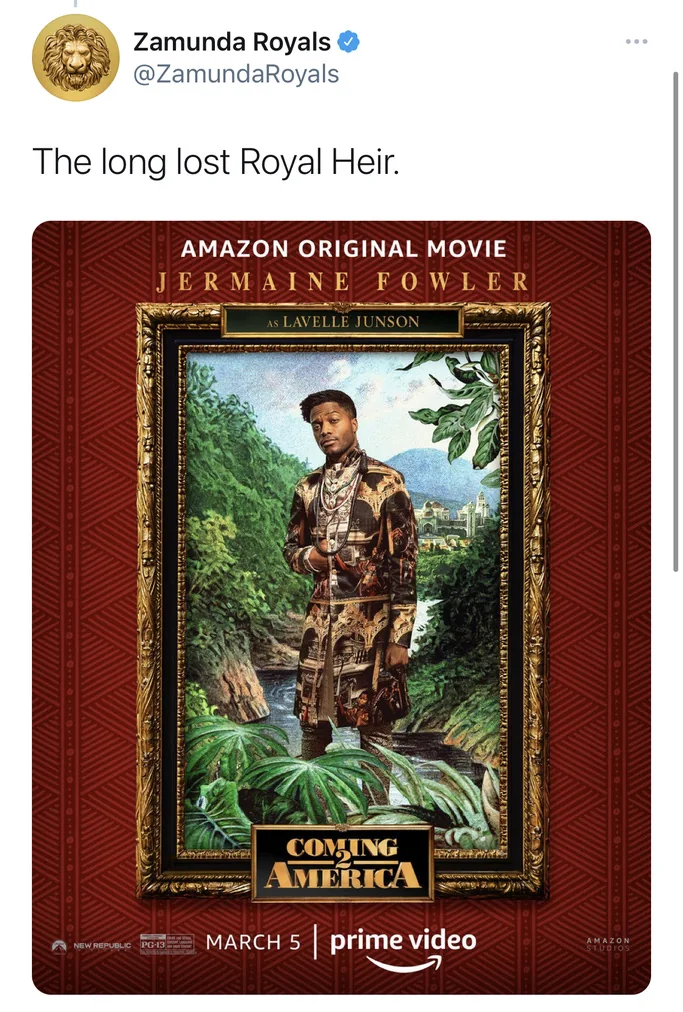
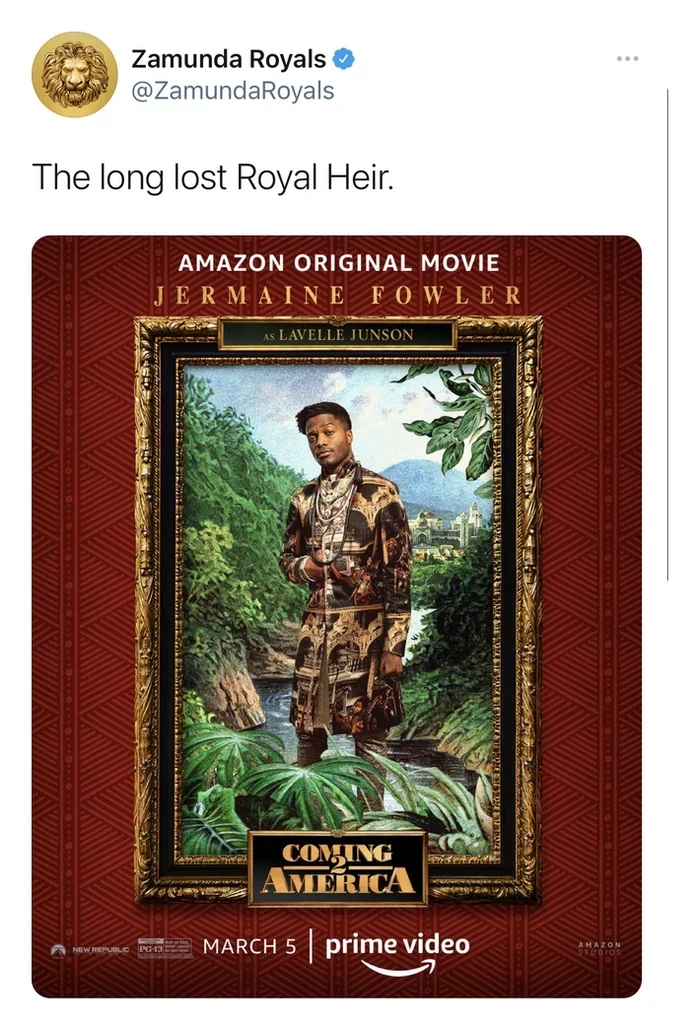
Coming 2 America: even tweet crops, centered palace bio, handle line removed
Claude-Session: https://claude.ai/code/session_01GynMn68rPNeErdqJf9SnSH

diff --git a/pages/coming-2-america.html b/pages/coming-2-america.html
@@ -252,7 +252,7 @@ display:block;position:relative;overflow-x:clip;width:100%;background:var(--iv);
 .zm .pid>div{padding-top:calc(var(--u)*4.2)}
 .zm .nm{font:900 calc(var(--u)*2)/1 var(--hd);color:var(--g3)}
 .zm .hn{margin-top:.5em;font:700 calc(var(--u)*.8)/1.3 var(--hd);letter-spacing:.16em;text-transform:uppercase;color:rgba(251,245,232,.75)}
-.zm .bio{margin:calc(var(--u)*1.6) 0 0 calc(var(--u)*3);font:italic 400 calc(var(--u)*1.6)/1.35 var(--bd);color:var(--pp)}
+.zm .bio{margin:calc(var(--u)*1.6) 0 0;text-align:center;font:italic 400 calc(var(--u)*1.6)/1.35 var(--bd);color:var(--pp)}
 .zm .rail{margin-top:calc(var(--u)*5)}
 .zm .rh{display:flex;align-items:center;justify-content:space-between;gap:1em}
 .zm .rb{display:flex;gap:calc(var(--u)*.8)}
@@ -380,7 +380,7 @@ display:block;position:relative;overflow-x:clip;width:100%;background:var(--iv);
  .zm .rwd .gv{grid-column:1/3;grid-row:1}
  .zm .ri{height:340px}
  .zm .pid{margin-left:calc(var(--u)*2)}
- .zm .bio{margin-left:0;font-size:19px}
+ .zm .bio{font-size:19px}
  .zm .ft .sp{display:block}
  .zm .ft .spf{margin-top:calc(var(--u)*3.4)}
  .zm h2{font-size:min(54px,8.6vw)}
@@ -542,7 +542,7 @@ display:block;position:relative;overflow-x:clip;width:100%;background:var(--iv);
   </div>
   <div class="prof rv">
    <figure class="gf pc"><i class="c tl"></i><i class="c tr"></i><i class="c bl"></i><i class="c br"></i><div class="in"><img src="https://raw.githubusercontent.com/manicpixiedigifairy/nina-site/main/assets/c2a-royal-family.webp?v=1" alt="" role="img" aria-label="The royal family of Zamunda in a painted jungle landscape, King Akeem crowned at center" width="1800" height="687" loading="lazy"></div></figure>
-   <div class="pid"><span class="av"><img src="https://raw.githubusercontent.com/manicpixiedigifairy/nina-site/main/assets/c2a-lion.webp?v=1" alt="" role="img" aria-label="The golden lion crest used as the @ZamundaRoyals avatar" width="400" height="400" loading="lazy"></span><div><p class="nm">Zamunda Royals</p><p class="hn">@ZamundaRoyals on Instagram and Twitter</p></div></div>
+   <div class="pid"><span class="av"><img src="https://raw.githubusercontent.com/manicpixiedigifairy/nina-site/main/assets/c2a-lion.webp?v=1" alt="" role="img" aria-label="The golden lion crest used as the @ZamundaRoyals avatar" width="400" height="400" loading="lazy"></span><div><p class="nm">Zamunda Royals</p></div></div>
    <p class="bio">&ldquo;Behold, the official propaganda arm of the Kingdom of Zamunda.&rdquo;</p>
   </div>
   <figure class="gf pf rv"><i class="c tl"></i><i class="c tr"></i><i class="c bl"></i><i class="c br"></i>
@@ -580,7 +580,7 @@ display:block;position:relative;overflow-x:clip;width:100%;background:var(--iv);
   </figure>
   <div class="rail rv">
    <div class="rh"><p class="lb">From The Feed</p><div class="rb"><button type="button" class="rbt" data-d="-1" aria-label="Previous posts">&larr;</button><button type="button" class="rbt" data-d="1" aria-label="Next posts">&rarr;</button></div></div>
-   <div class="rt" id="zmrt"><figure class="ri"><img src="https://raw.githubusercontent.com/manicpixiedigifairy/nina-site/main/assets/c2a-zorbes.webp?v=1" alt="" role="img" aria-label="Zorbes magazine parody cover naming King Akeem Zamunda's wealthiest person" width="1000" height="1250" loading="lazy"></figure><figure class="ri"><img src="https://raw.githubusercontent.com/manicpixiedigifairy/nina-site/main/assets/c2a-tweet-mirembe.webp?v=1" alt="" role="img" aria-label="@ZamundaRoyals tweet introducing Mirembe as a breath of fresh air for the long lost royal heir" width="678" height="1030" loading="lazy"></figure><figure class="ri"><img src="https://raw.githubusercontent.com/manicpixiedigifairy/nina-site/main/assets/c2a-tweet-lavelle.webp?v=1" alt="" role="img" aria-label="@ZamundaRoyals tweet introducing Lavelle Junson as the long lost royal heir" width="683" height="1012" loading="lazy"></figure><figure class="ri"><img src="https://raw.githubusercontent.com/manicpixiedigifairy/nina-site/main/assets/c2a-tweet-cleo-maurice.webp?v=1" alt="" role="img" aria-label="@ZamundaRoyals tweet bringing the King of burgers to the kingdom, with Cleo and Maurice" width="699" height="1123" loading="lazy"></figure><figure class="ri"><img src="https://raw.githubusercontent.com/manicpixiedigifairy/nina-site/main/assets/c2a-gif-news.gif?v=1" alt="" role="img" aria-label="Animated @ZamundaRoyals clip of a Royal Palace Zamunda live news broadcast with the barbershop crew" width="400" height="400" loading="lazy"></figure><figure class="ri"><img src="https://raw.githubusercontent.com/manicpixiedigifairy/nina-site/main/assets/c2a-lisa-akeem-portrait.webp?v=1" alt="" role="img" aria-label="Queen Lisa standing beside King Akeem seated on his throne in the palace" width="1000" height="1000" loading="lazy"></figure><figure class="ri"><img src="https://raw.githubusercontent.com/manicpixiedigifairy/nina-site/main/assets/c2a-bank-of-zamunda.webp?v=1" alt="" role="img" aria-label="Bank of Zamunda one hundred pound notes with King Akeem's portrait and the golden lion" width="1000" height="1000" loading="lazy"></figure><figure class="ri"><img src="https://raw.githubusercontent.com/manicpixiedigifairy/nina-site/main/assets/c2a-varsity-briefcase.webp?v=1" alt="" role="img" aria-label="King Akeem's New York varsity jacket and royal chain laid in a briefcase of gold bars" width="1000" height="1251" loading="lazy"></figure><figure class="ri"><img src="https://raw.githubusercontent.com/manicpixiedigifairy/nina-site/main/assets/c2a-tweet-sexual-chocolate.webp?v=1" alt="" role="img" aria-label="@ZamundaRoyals tweet announcing a Sexual Chocolate giveaway from Queens legend Randy Watson" width="852" height="862" loading="lazy"></figure><figure class="ri"><img src="https://raw.githubusercontent.com/manicpixiedigifairy/nina-site/main/assets/c2a-lisa-akeem-party.webp?v=1" alt="" role="img" aria-label="Queen Lisa and King Akeem smiling at a royal celebration" width="1000" height="1191" loading="lazy"></figure></div>
+   <div class="rt" id="zmrt"><figure class="ri"><img src="https://raw.githubusercontent.com/manicpixiedigifairy/nina-site/main/assets/c2a-zorbes.webp?v=1" alt="" role="img" aria-label="Zorbes magazine parody cover naming King Akeem Zamunda's wealthiest person" width="1000" height="1250" loading="lazy"></figure><figure class="ri"><img src="https://raw.githubusercontent.com/manicpixiedigifairy/nina-site/main/assets/c2a-tweet-mirembe.webp?v=2" alt="" role="img" aria-label="@ZamundaRoyals tweet introducing Mirembe as a breath of fresh air for the long lost royal heir" width="700" height="1112" loading="lazy"></figure><figure class="ri"><img src="https://raw.githubusercontent.com/manicpixiedigifairy/nina-site/main/assets/c2a-tweet-lavelle.webp?v=2" alt="" role="img" aria-label="@ZamundaRoyals tweet introducing Lavelle Junson as the long lost royal heir" width="700" height="1030" loading="lazy"></figure><figure class="ri"><img src="https://raw.githubusercontent.com/manicpixiedigifairy/nina-site/main/assets/c2a-tweet-cleo-maurice.webp?v=2" alt="" role="img" aria-label="@ZamundaRoyals tweet bringing the King of burgers to the kingdom, with Cleo and Maurice" width="700" height="1180" loading="lazy"></figure><figure class="ri"><img src="https://raw.githubusercontent.com/manicpixiedigifairy/nina-site/main/assets/c2a-gif-news.gif?v=1" alt="" role="img" aria-label="Animated @ZamundaRoyals clip of a Royal Palace Zamunda live news broadcast with the barbershop crew" width="400" height="400" loading="lazy"></figure><figure class="ri"><img src="https://raw.githubusercontent.com/manicpixiedigifairy/nina-site/main/assets/c2a-lisa-akeem-portrait.webp?v=1" alt="" role="img" aria-label="Queen Lisa standing beside King Akeem seated on his throne in the palace" width="1000" height="1000" loading="lazy"></figure><figure class="ri"><img src="https://raw.githubusercontent.com/manicpixiedigifairy/nina-site/main/assets/c2a-bank-of-zamunda.webp?v=1" alt="" role="img" aria-label="Bank of Zamunda one hundred pound notes with King Akeem's portrait and the golden lion" width="1000" height="1000" loading="lazy"></figure><figure class="ri"><img src="https://raw.githubusercontent.com/manicpixiedigifairy/nina-site/main/assets/c2a-varsity-briefcase.webp?v=1" alt="" role="img" aria-label="King Akeem's New York varsity jacket and royal chain laid in a briefcase of gold bars" width="1000" height="1251" loading="lazy"></figure><figure class="ri"><img src="https://raw.githubusercontent.com/manicpixiedigifairy/nina-site/main/assets/c2a-tweet-sexual-chocolate.webp?v=2" alt="" role="img" aria-label="@ZamundaRoyals tweet announcing a Sexual Chocolate giveaway from Queens legend Randy Watson" width="700" height="773" loading="lazy"></figure><figure class="ri"><img src="https://raw.githubusercontent.com/manicpixiedigifairy/nina-site/main/assets/c2a-lisa-akeem-party.webp?v=1" alt="" role="img" aria-label="Queen Lisa and King Akeem smiling at a royal celebration" width="1000" height="1191" loading="lazy"></figure></div>
   </div>
  </div>
 </section>
@@ -653,7 +653,7 @@ display:block;position:relative;overflow-x:clip;width:100%;background:var(--iv);
    <div class="rv"><p class="lb">Decree VII: Royal Engagement</p><h2>No Citizen <em>Left</em> On Read</h2></div>
    <div class="bdy rv"><p>Round the clock community management kept the world of the royal family intact. Reactive and proactive, the palace prioritized high profile moments with celebrities and key influencers and answered its citizens in character.</p><p>Talent and influencers shared creative on their own channels and amplified owned messages. Scripted self shoot prompts let talent create assets from the safety of home, and social toolkits guided content creation across the court.</p></div>
   </div>
-  <div class="posts"><figure class="gf sl"><i class="c tl"></i><i class="c tr"></i><i class="c bl"></i><i class="c br"></i><div class="in"><img src="https://raw.githubusercontent.com/manicpixiedigifairy/nina-site/main/assets/c2a-influencer-jessiewoo.webp?v=1" alt="" role="img" aria-label="Influencer post in a Zamunda inspired print gown in front of the Coming 2 America title screen" width="1000" height="1722" loading="lazy"></div></figure><figure class="gf sl"><i class="c tl"></i><i class="c tr"></i><i class="c bl"></i><i class="c br"></i><div class="in"><img src="https://raw.githubusercontent.com/manicpixiedigifairy/nina-site/main/assets/c2a-influencer-martin.webp?v=1" alt="" role="img" aria-label="Martin Lawrence post of the black and gold Coming 2 America gift boxes" width="1000" height="1511" loading="lazy"></div></figure><figure class="gf sl"><i class="c tl"></i><i class="c tr"></i><i class="c bl"></i><i class="c br"></i><div class="in"><img src="https://raw.githubusercontent.com/manicpixiedigifairy/nina-site/main/assets/c2a-influencer-brittanysky.webp?v=1" alt="" role="img" aria-label="Influencer post of a custom bomber jacket in a Coming 2 America box, tagged @ZamundaRoyals" width="1000" height="1594" loading="lazy"></div></figure><figure class="gf sl"><i class="c tl"></i><i class="c tr"></i><i class="c bl"></i><i class="c br"></i><div class="in"><img src="https://raw.githubusercontent.com/manicpixiedigifairy/nina-site/main/assets/c2a-influencer-danelle.webp?v=1" alt="" role="img" aria-label="Two influencers in crowns holding Coming 2 America boxes and premiere tickets" width="1000" height="1238" loading="lazy"></div></figure></div>
+  <div class="posts"><figure class="gf sl"><i class="c tl"></i><i class="c tr"></i><i class="c bl"></i><i class="c br"></i><div class="in"><img src="https://raw.githubusercontent.com/manicpixiedigifairy/nina-site/main/assets/c2a-influencer-jessiewoo.webp?v=2" alt="" role="img" aria-label="Influencer post in a Zamunda inspired print gown in front of the Coming 2 America title screen" width="1000" height="1722" loading="lazy"></div></figure><figure class="gf sl"><i class="c tl"></i><i class="c tr"></i><i class="c bl"></i><i class="c br"></i><div class="in"><img src="https://raw.githubusercontent.com/manicpixiedigifairy/nina-site/main/assets/c2a-influencer-martin.webp?v=2" alt="" role="img" aria-label="Martin Lawrence post of the black and gold Coming 2 America gift boxes" width="1000" height="1511" loading="lazy"></div></figure><figure class="gf sl"><i class="c tl"></i><i class="c tr"></i><i class="c bl"></i><i class="c br"></i><div class="in"><img src="https://raw.githubusercontent.com/manicpixiedigifairy/nina-site/main/assets/c2a-influencer-brittanysky.webp?v=2" alt="" role="img" aria-label="Influencer post of a custom bomber jacket in a Coming 2 America box, tagged @ZamundaRoyals" width="1000" height="1594" loading="lazy"></div></figure><figure class="gf sl"><i class="c tl"></i><i class="c tr"></i><i class="c bl"></i><i class="c br"></i><div class="in"><img src="https://raw.githubusercontent.com/manicpixiedigifairy/nina-site/main/assets/c2a-influencer-danelle.webp?v=2" alt="" role="img" aria-label="Two influencers in crowns holding Coming 2 America boxes and premiere tickets" width="1000" height="1238" loading="lazy"></div></figure></div>
   <figure class="gf sl rx"><i class="c tl"></i><i class="c tr"></i><i class="c bl"></i><i class="c br"></i><div class="in"><img src="https://raw.githubusercontent.com/manicpixiedigifairy/nina-site/main/assets/c2a-gif-good-to-see-you.gif?v=1" alt="" role="img" aria-label="Semmi and King Akeem in the barbershop with the caption It is so good to see you" width="498" height="245" loading="lazy"></div></figure>
  </div>
 </section>
@@ -694,7 +694,7 @@ display:block;position:relative;overflow-x:clip;width:100%;background:var(--iv);
   </div>
   <div class="guests rv">
    <p class="lb">The Royal Guest List</p>
-   <figure class="gf sl fx"><i class="c tl"></i><i class="c tr"></i><i class="c bl"></i><i class="c br"></i><div class="in"><img src="https://raw.githubusercontent.com/manicpixiedigifairy/nina-site/main/assets/c2a-gif-fan-tweets.gif?v=1" alt="" role="img" aria-label="Animated fan tweets in gold: Loved it so much, Royalty at its best, Well worth the 30 year wait" width="400" height="400" loading="lazy"></div></figure>
+   <figure class="gf sl fx"><i class="c tl"></i><i class="c tr"></i><i class="c bl"></i><i class="c br"></i><div class="in"><img src="https://raw.githubusercontent.com/manicpixiedigifairy/nina-site/main/assets/c2a-gif-fan-tweets.gif?v=2" alt="" role="img" aria-label="Animated fan tweets in gold: Loved it so much, Royalty at its best, Well worth the 30 year wait" width="400" height="400" loading="lazy"></div></figure>
    <p class="gl">Coming 2 America trended nationally on Twitter across multiple conversations through opening weekend, with posts from</p>
   </div>
  </div>
